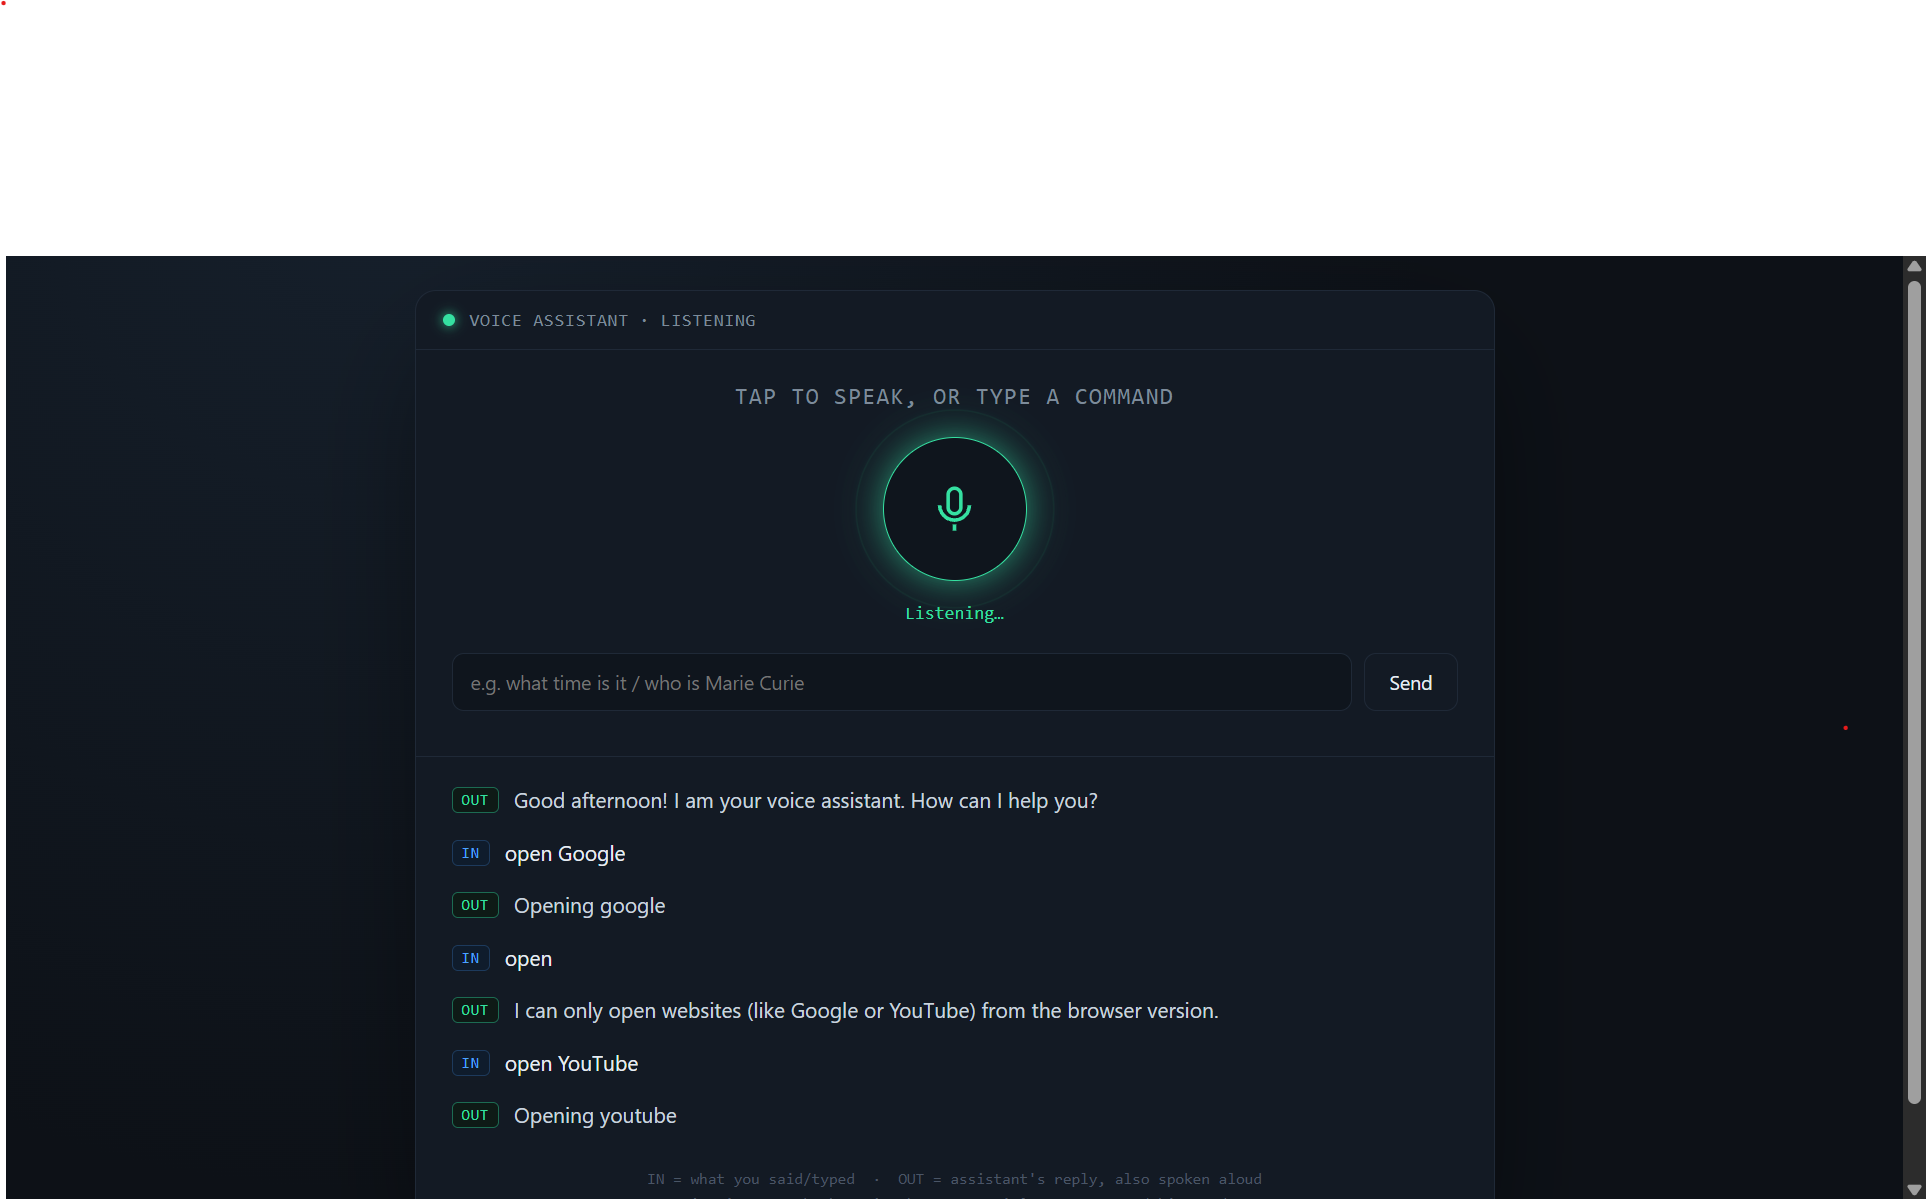
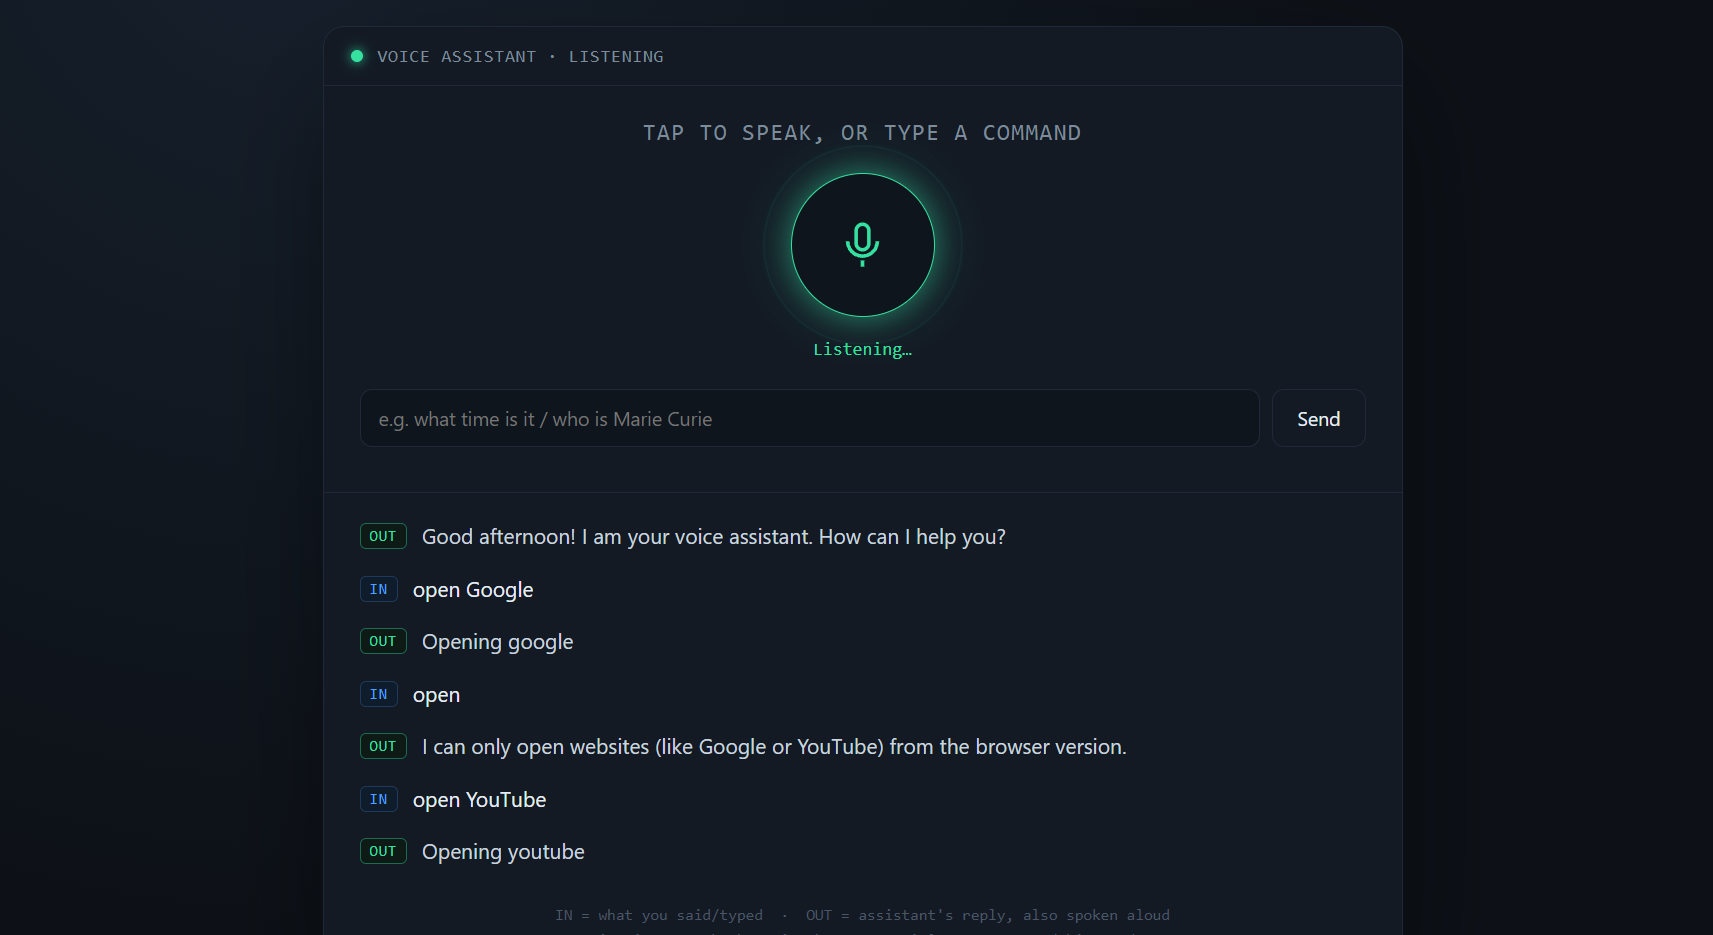
Update project files

diff --git a/README.md b/README.md
@@ -1,5 +1,7 @@
 # AI-Based Voice Assistant — Major Project
 
+![Voice feature demonstration](Screenshots/voice%20-%20feature%20demonstration.png)
+
 A Python voice assistant that listens to voice commands, converts speech to
 text, performs an action, and replies back using speech. This project
 includes **two versions**:
